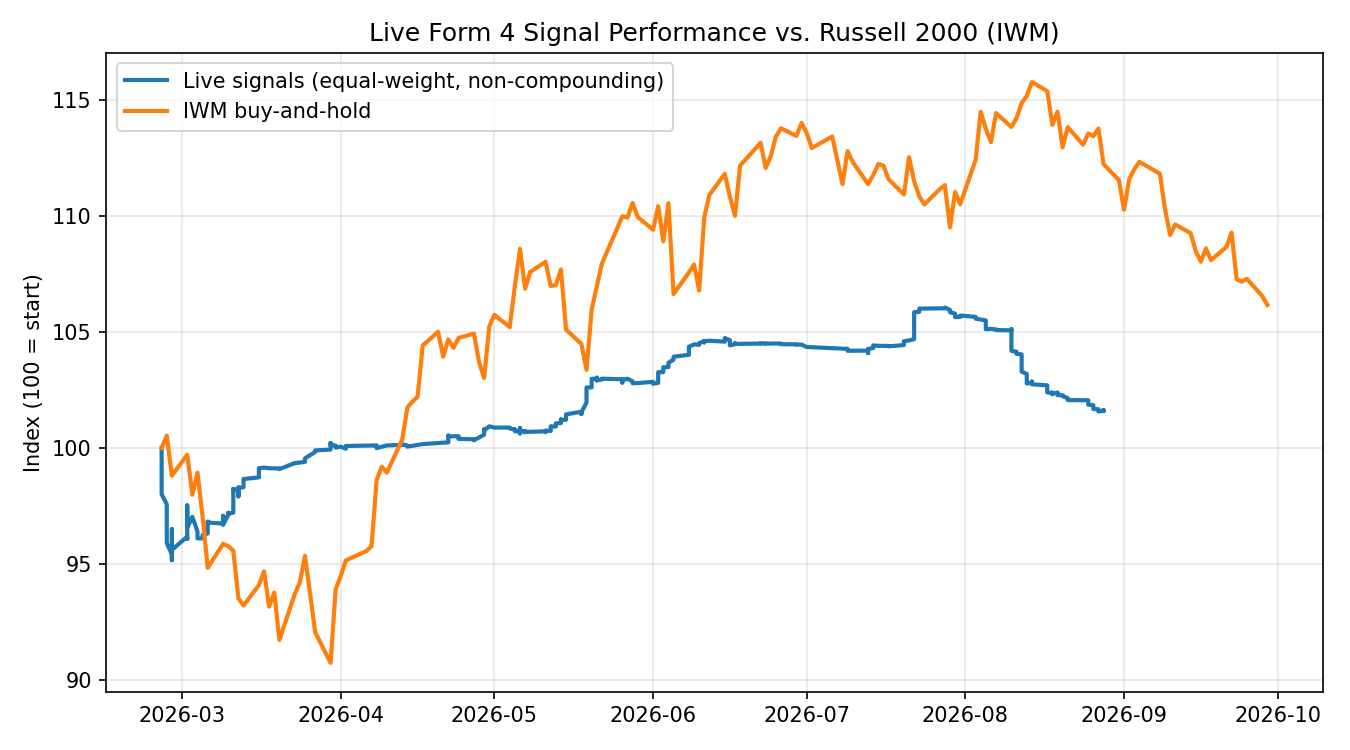
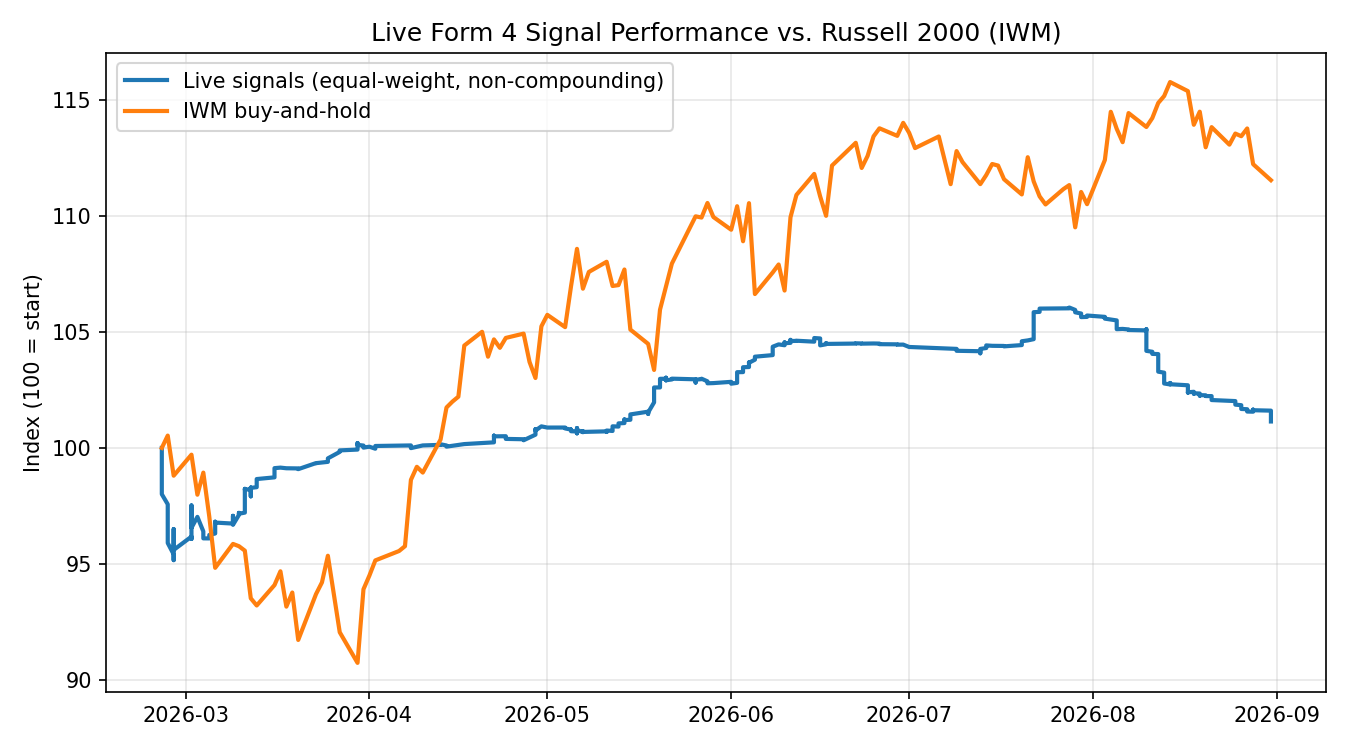
Fix benchmark chart to stop at the same date as scored signals
The IWM line previously ran through today, a month past the last signal
with a fully-resolved 30d return, making the chart appear to compare a
benchmark against a period with no corresponding signal data.

diff --git a/analysis/compute_performance.py b/analysis/compute_performance.py
@@ -176,7 +176,7 @@ def summarize(scored: pd.DataFrame) -> pd.DataFrame:
 def build_chart(scored: pd.DataFrame, iwm: pd.Series, out_path: str, burn_in: int = 10) -> None:
     """
     Two lines, both indexed to 100 at the entry date of the first plotted
-    signal:
+    signal, and both ending at the entry date of the LAST plotted signal:
       - "Live signals (equal-weight, non-compounding)": the expanding mean of
         each signal's own realized 30d return, applied to a 100-start index.
         This assumes equal capital per signal and does not compound trade to
@@ -189,6 +189,14 @@ def build_chart(scored: pd.DataFrame, iwm: pd.Series, out_path: str, burn_in: in
     dominated by whichever trade happened to come first, producing a sharp,
     meaningless spike/dip at the very start of the line. Full-sample stats
     in summary_stats.csv are unaffected by this - it only trims the chart.
+
+    The IWM line is clipped to the same end date as the signal line. `scored`
+    only contains signals whose 30-day window has already fully elapsed, so
+    the signal line necessarily stops about a month before today; letting the
+    IWM line run all the way to today would show the benchmark continuing
+    through a stretch that has no corresponding scored signal to compare it
+    against, which reads as the chart extending past the period it's actually
+    describing.
     """
     ordered = scored.sort_values("entry_date").reset_index(drop=True)
     ordered["cum_avg_return"] = ordered["return_30d"].expanding().mean()
@@ -197,7 +205,8 @@ def build_chart(scored: pd.DataFrame, iwm: pd.Series, out_path: str, burn_in: in
     signal_index = 100 * (1 + plotted["cum_avg_return"]) / rebase
 
     start_date = plotted["entry_date"].iloc[0]
-    iwm_window = iwm[iwm.index >= start_date]
+    end_date = plotted["entry_date"].iloc[-1]
+    iwm_window = iwm[(iwm.index >= start_date) & (iwm.index <= end_date)]
     iwm_index = 100 * (iwm_window / iwm_window.iloc[0])
 
     fig, ax = plt.subplots(figsize=(9, 5))

diff --git a/docs/performance.md b/docs/performance.md
@@ -9,14 +9,19 @@ differs from the offline research numbers.
 
 | Metric | Value |
 |---|---|
-| Live signal history | 2026-02-17 – 2026-09-29 (~7.5 months) |
+| Live signal history | 2026-02-17 – present |
 | Total signals emitted | 636 |
-| Signals scored (30-day window elapsed) | 559 |
-| Win rate vs. IWM (30d) | **58.7%** |
-| Mean 30-day return per signal | **+4.0%** |
-| Median 30-day return per signal | +2.8% |
-| Mean IWM 30-day return over the same windows | +1.0% |
-| Mean alpha vs. IWM per signal | **+2.9pp** |
+| Signals scored (30-day window elapsed) | 569 |
+| Win rate vs. IWM (30d) | **57.6%** |
+| Mean 30-day return per signal | **+3.5%** |
+| Median 30-day return per signal | +2.6% |
+| Mean IWM 30-day return over the same windows | +0.9% |
+| Mean alpha vs. IWM per signal | **+2.6pp** |
+
+(These figures shift slightly each time the analysis is re-run, since more
+signals cross the 30-day scoring threshold every day — see
+[`analysis/summary_stats.csv`](../analysis/summary_stats.csv) for the
+current numbers.)
 
 "Win" is defined the same way the live service's own gate defines it: a
 signal beats IWM over the identical 30-day window, not merely a positive
@@ -26,12 +31,18 @@ absolute return.
 
 ![Live signals vs IWM](../assets/performance_chart.png)
 
-Two lines, both indexed to 100:
+Two lines, both indexed to 100 and both ending on the same date:
 - **Live signals** — the expanding average return across every scored signal
   to date, equal-weighted and non-compounding. This tracks *average signal
   quality over time*, not a simulated brokerage account.
 - **IWM buy-and-hold** — simply holding the Russell 2000 ETF over the
   identical calendar span.
+
+The chart intentionally stops about a month before today: any signal from the
+last 30 days doesn't have a resolved 30-day return yet, so it isn't part of
+the scored comparison, and extending the benchmark line past that point would
+show it running through a stretch with no corresponding signal data to
+compare it against.
 
 Because the Russell 2000 held a strong rally for much of the summer, IWM's
 buy-and-hold line pulled ahead of the signal-quality line in cumulative terms

diff --git a/README.md b/README.md
@@ -13,9 +13,9 @@ are not included.
 ## Headline result
 
 Since launch (2026-02-17), the live service's signals have beaten the Russell
-2000 (IWM) on a matched 30-day-return basis **58.7% of the time**, with a
-mean per-signal return of **+4.0%** vs. IWM's **+1.0%** over the same windows
-— computed independently from 559 scored live signals, not a backtest
+2000 (IWM) on a matched 30-day-return basis **57.6% of the time**, with a
+mean per-signal return of **+3.5%** vs. IWM's **+0.9%** over the same windows
+— computed independently from 569 scored live signals, not a backtest
 projection. See [`docs/performance.md`](docs/performance.md) for the full
 writeup, methodology, and limitations.
 
